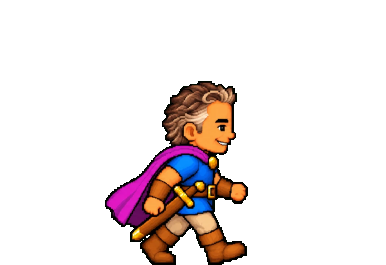
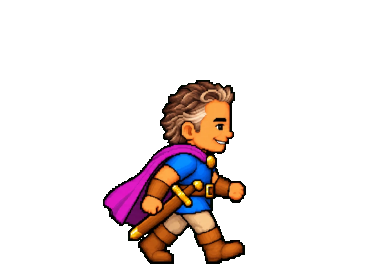
Map: gold cape buckle on the hero's sword-hold pose

diff --git a/scripts/build_village_hero.py b/scripts/build_village_hero.py
@@ -74,15 +74,15 @@ SHEETS = {
         {
             "draw-0": (88, 16, 232, 292),
             "draw-1": (396, 16, 252, 292),
-            "draw-2": (700, 16, 392, 292),
-            "point": (140, 320, 452, 296),
-            "point-glint": (588, 320, 480, 296),
-            "hold": (120, 664, 260, 316),
-            "raise-0": (436, 572, 276, 396),
-            "raise-1": (756, 524, 300, 444),
-            "plant": (136, 983, 244, 309),
-            "sheathe-0": (408, 984, 244, 300),
-            "sheathe-1": (712, 984, 228, 308),
+            "draw-2": (700, 16, 380, 292),
+            "point": (136, 320, 452, 292),
+            "point-glint": (588, 320, 476, 292),
+            "hold": (124, 660, 248, 308),
+            "raise-0": (432, 572, 284, 396),
+            "raise-1": (752, 524, 304, 444),
+            "plant": (140, 980, 236, 312),
+            "sheathe-0": (408, 984, 240, 300),
+            "sheathe-1": (712, 984, 224, 308),
         },
     ),
 }
